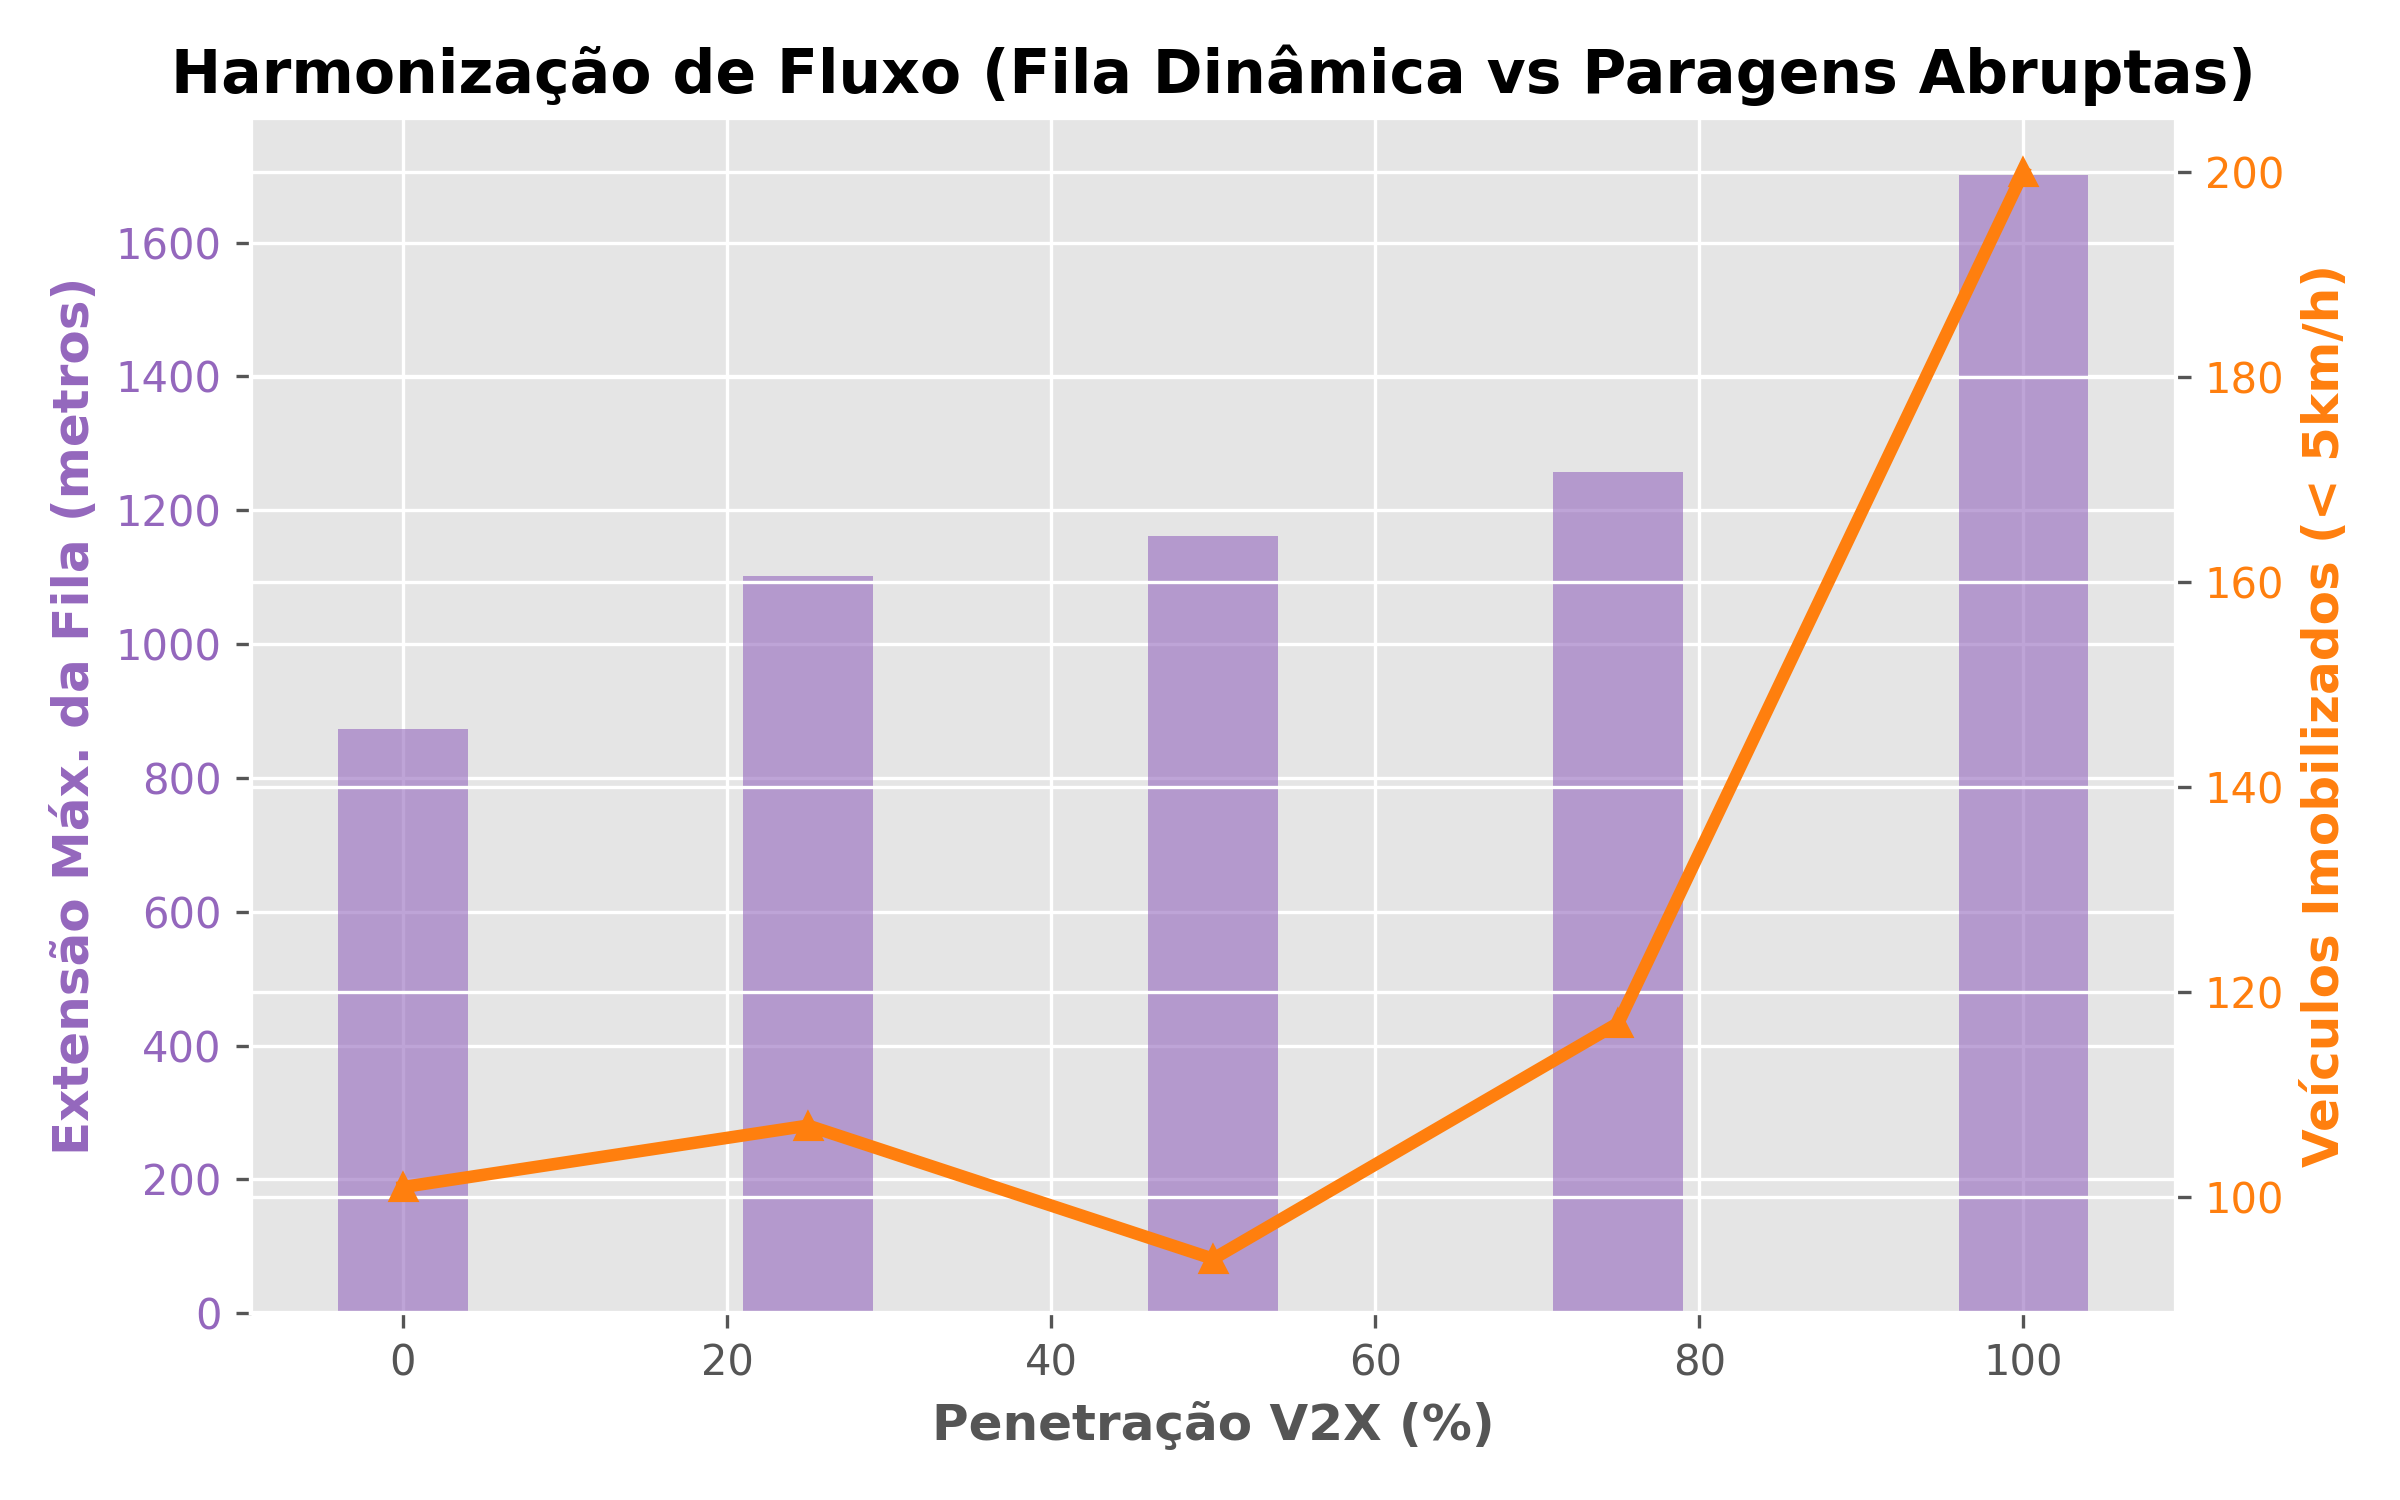
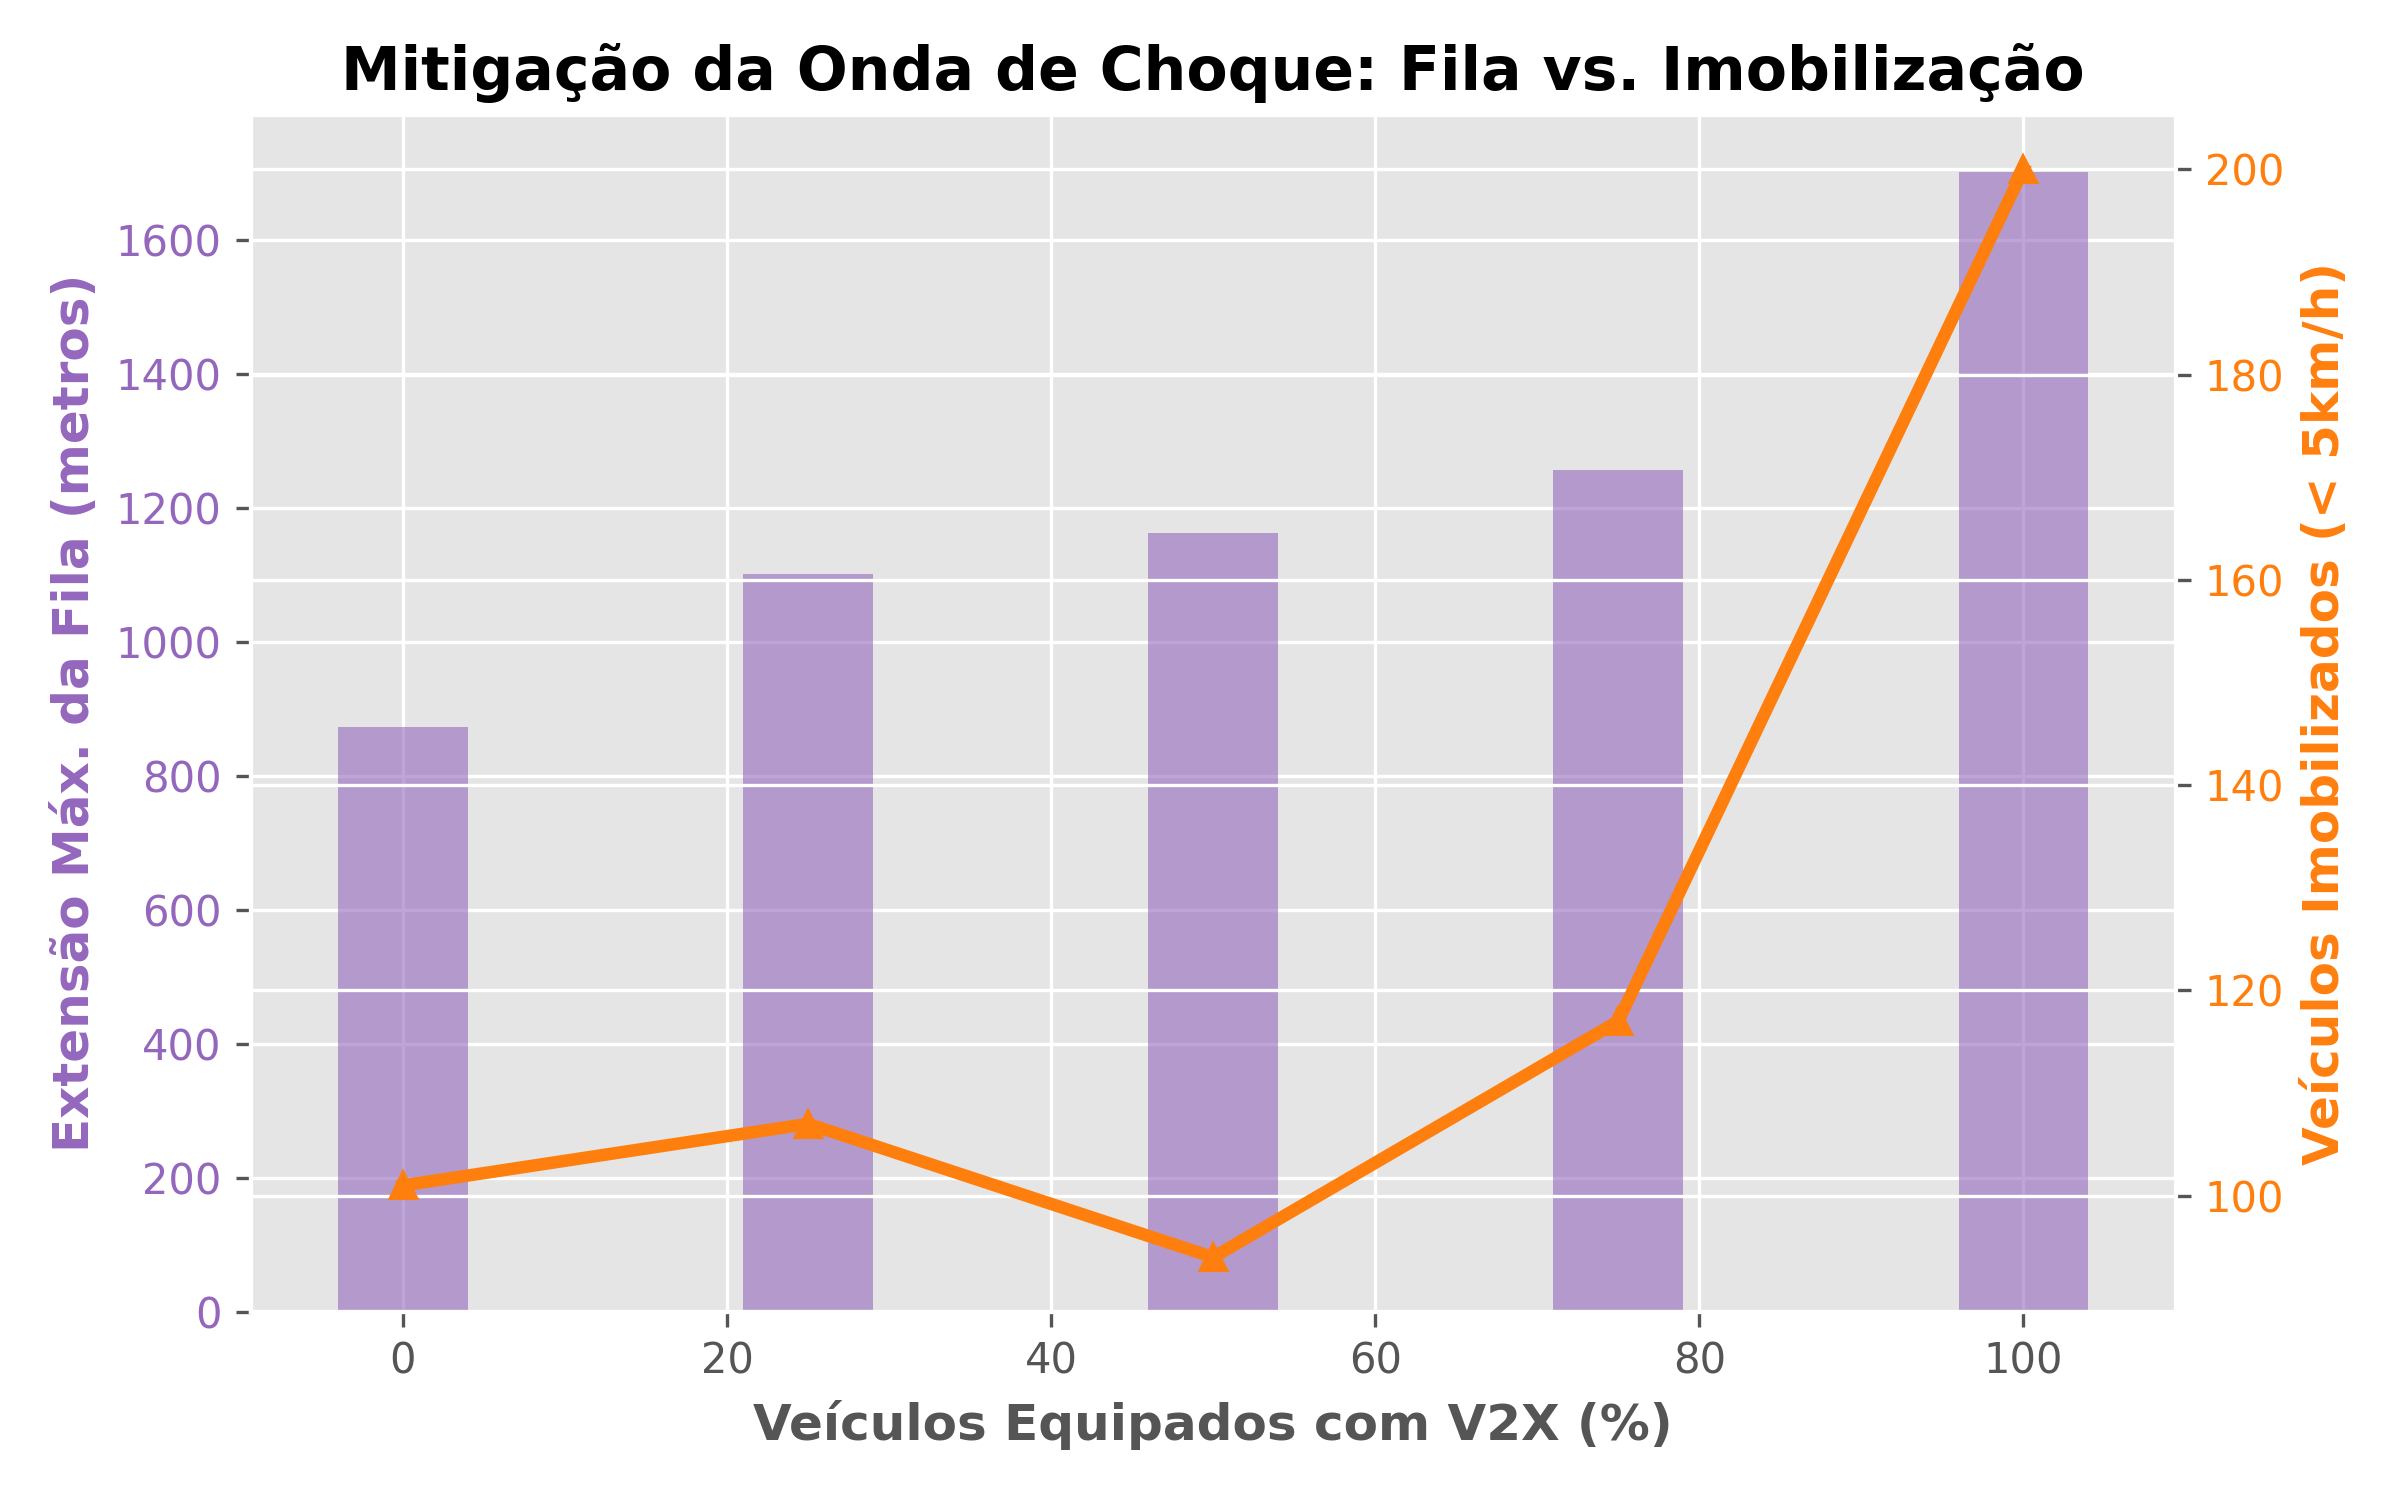
feat: Atualização das legendas dos gráficos

diff --git a/scenarios/Roadworks/gerar_graficos.py b/scenarios/Roadworks/gerar_graficos.py
@@ -72,7 +72,8 @@ plt.style.use('ggplot')
 # 1. Gráfico de TimeLoss (p95) e Escoamento (Throughput)
 fig, ax1 = plt.subplots(figsize=(8, 5))
 color = 'tab:red'
-ax1.set_xlabel('Penetração V2X (%)', fontweight='bold')
+# --- ALTERAÇÃO DO EIXO X AQUI ---
+ax1.set_xlabel('Veículos Equipados com V2X (%)', fontweight='bold')
 ax1.set_ylabel('TimeLoss p95 (segundos)', color=color, fontweight='bold')
 ax1.plot(penetrations, timeloss_p95, marker='o', color=color, linewidth=2, label='TimeLoss (p95)')
 ax1.tick_params(axis='y', labelcolor=color)
@@ -91,7 +92,8 @@ plt.close()
 # 2. Gráfico do Comprimento da Fila vs Veículos Parados (Stop-and-Go)
 fig, ax1 = plt.subplots(figsize=(8, 5))
 color = 'tab:purple'
-ax1.set_xlabel('Penetração V2X (%)', fontweight='bold')
+# --- ALTERAÇÃO DO EIXO X AQUI ---
+ax1.set_xlabel('Veículos Equipados com V2X (%)', fontweight='bold')
 ax1.set_ylabel('Extensão Máx. da Fila (metros)', color=color, fontweight='bold')
 ax1.bar(penetrations, jam_length_max, width=8, color=color, alpha=0.6, label='Extensão Fila')
 ax1.tick_params(axis='y', labelcolor=color)
@@ -99,12 +101,13 @@ ax1.tick_params(axis='y', labelcolor=color)
 ax2 = ax1.twinx()  
 color = 'tab:orange'
 ax2.set_ylabel('Veículos Imobilizados (< 5km/h)', color=color, fontweight='bold')
-ax2.plot(penetrations, halting_vehicles_max, marker='^', color=color, linewidth=3, label='Halting Vehicles')
+ax2.plot(penetrations, halting_vehicles_max, marker='^', color=color, linewidth=3, label='Veículos Imobilizados')
 ax2.tick_params(axis='y', labelcolor=color)
 
-plt.title('Harmonização de Fluxo (Fila Dinâmica vs Paragens Abruptas)', fontweight='bold')
+# --- ALTERAÇÃO DO TÍTULO AQUI ---
+plt.title('Mitigação da Onda de Choque: Fila vs. Imobilização', fontweight='bold')
 fig.tight_layout()
 plt.savefig('grafico_filas.png', dpi=300)
 plt.close()
 
-print("\n[SUCESSO] Gráficos gerados e guardados na diretoria atual (formato .png)!")
+print("\n[SUCESSO] Gráficos atualizados e guardados na diretoria atual (formato .png)!")
